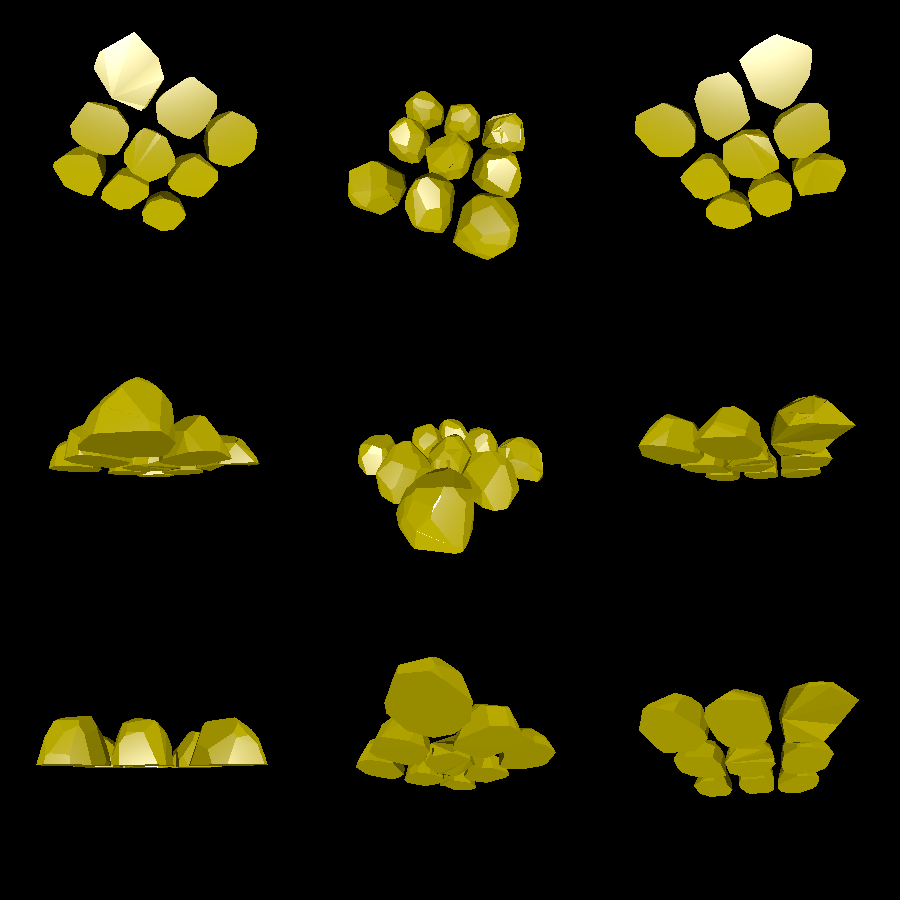
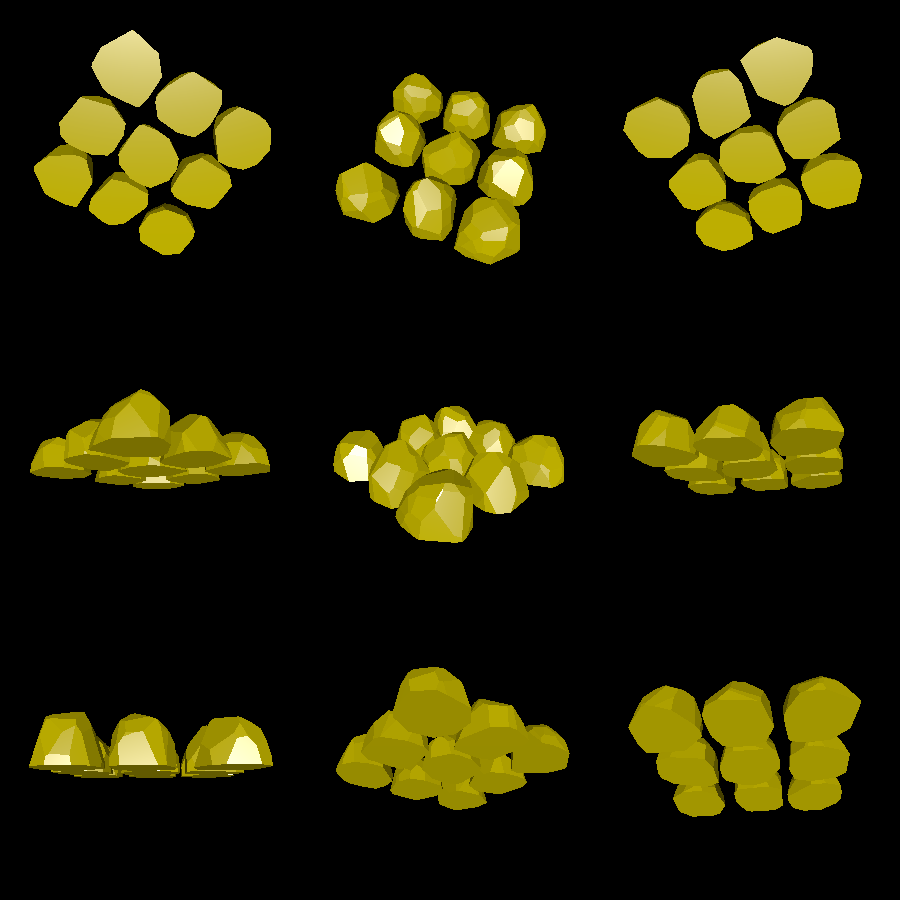
fix polytope epsilon -> fix rocks

diff --git a/polytope.go b/polytope.go
@@ -39,7 +39,7 @@ func (c ConvexPolytope) Contains(coord Coord3D) bool {
 // run, since it is O(n^3) in the constraints.
 func (c ConvexPolytope) Mesh() *Mesh {
 	m := NewMesh()
-	epsilon := c.spacialEpsilon()
+	epsilon := c.spatialEpsilon()
 	for i1 := 0; i1 < len(c); i1++ {
 		vertices := []Coord3D{}
 		for i2 := 0; i2 < len(c)-1; i2++ {
@@ -124,27 +124,16 @@ func (c ConvexPolytope) vertex(i1, i2, i3 int, epsilon float64) (Coord3D, bool) 
 	return solution, true
 }
 
-func (c ConvexPolytope) spacialEpsilon() float64 {
-	var min, max Coord3D
-	var first bool
-	for i := 0; i < len(c)-2; i++ {
-		for j := i + 1; j < len(c)-1; j++ {
-			for k := j + 1; k < len(c); k++ {
-				coord, found := c.vertex(i, j, k, math.Inf(1))
-				if found {
-					if first {
-						min = coord
-						max = coord
-						first = false
-					} else {
-						min = min.Min(coord)
-						max = max.Max(coord)
-					}
-				}
-			}
-		}
+func (c ConvexPolytope) spatialEpsilon() float64 {
+	// Use an epsilon measure that scales as the planes
+	// move further from the origin, since intersections
+	// will likely happen further out and result in larger
+	// floating point errors.
+	var maxMagnitude float64
+	for _, eq := range c {
+		maxMagnitude = math.Max(maxMagnitude, math.Abs(eq.Max)/eq.Normal.Norm())
 	}
-	return max.Sub(min).Norm() * 1e-8
+	return maxMagnitude * 1e-8
 }
 
 func addConvexFace(m *Mesh, vertices []Coord3D, normal Coord3D) {
